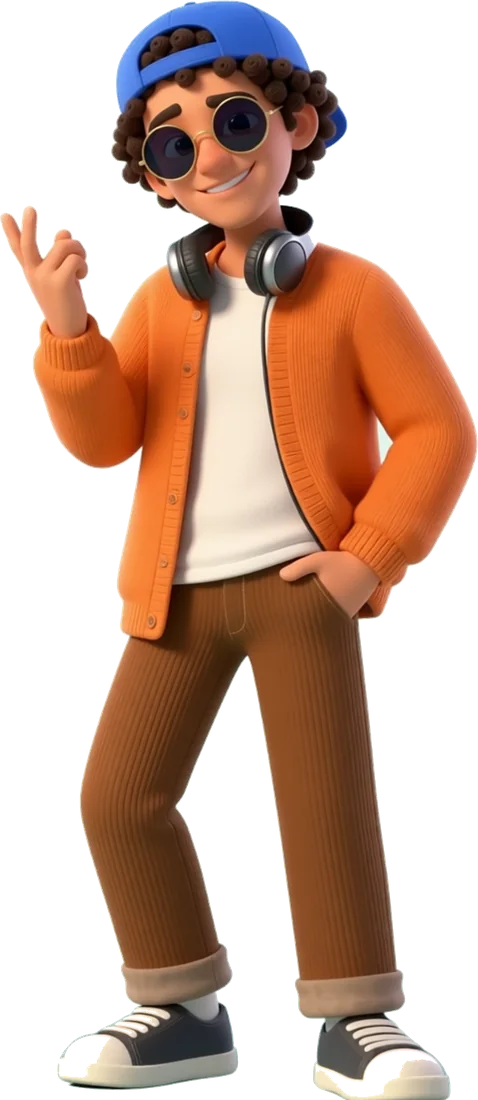
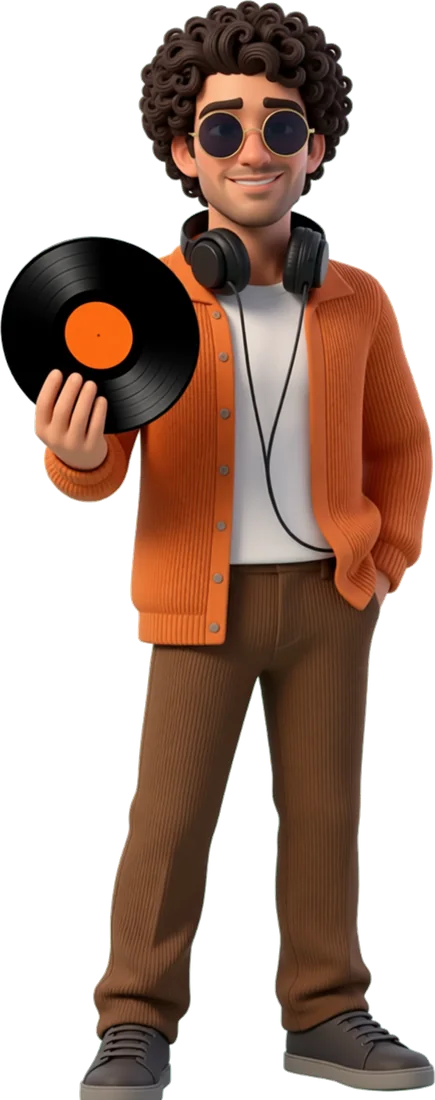
Calmer records, clean work field and soft joins; team redrawn
- Records: no parallax after the mouse (they shook a little); the player sits clear of the front
  sleeves and their tags
- Work: one clean teal-to-cobalt field without the blurred sleeve layer, which also hid the soft fades;
  the map and the prices end in an even colour and the pricing pattern fades out, so the joins are smooth
- Keyboardist redrawn: older, upright, curly, cool, in round dark glasses; on the map he holds a vinyl record
- Tester: a happier look and a phone with one small camera; on the map a handheld console and a natural face
- The recording person's recorder has a furrier windscreen on the map; shut-in mint cleared from the cut-outs

diff --git a/index.html b/index.html
@@ -11,35 +11,35 @@
 <link rel="preconnect" href="https://fonts.gstatic.com" crossorigin>
 <link rel="stylesheet" href="https://fonts.googleapis.com/css2?family=Archivo:wdth,wght@62..125,100..900&family=Roboto+Flex:wdth,wght@25..151,100..1000&family=Montserrat:wght@600..900&display=swap">
 <script>try{if(localStorage.getItem("sfx-lang")==="uk"){document.documentElement.lang="uk";document.documentElement.classList.add("i18n-wait")}}catch(e){}</script>
-<link rel="stylesheet" href="css/style.css?v=202610231812">
+<link rel="stylesheet" href="css/style.css?v=202610232003">
 <link rel="preload" as="image" href="assets/system/scene-forest.webp" fetchpriority="high">
 <script type="importmap">
 {
   "imports": {
     "three": "https://cdn.jsdelivr.net/npm/three@0.170.0/build/three.module.min.js",
     "three/addons/": "https://cdn.jsdelivr.net/npm/three@0.170.0/examples/jsm/",
-    "./js/audio.js": "./js/audio.js?v=202610231812",
-    "./js/boom-frame.js": "./js/boom-frame.js?v=202610231812",
-    "./js/content.js": "./js/content.js?v=202610231812",
-    "./js/gift.js": "./js/gift.js?v=202610231812",
-    "./js/i18n-boot.js": "./js/i18n-boot.js?v=202610231812",
-    "./js/i18n-uk.js": "./js/i18n-uk.js?v=202610231812",
-    "./js/i18n.js": "./js/i18n.js?v=202610231812",
-    "./js/main.js": "./js/main.js?v=202610231812",
-    "./js/map.js": "./js/map.js?v=202610231812",
-    "./js/music/music.js": "./js/music/music.js?v=202610231812",
-    "./js/music/sound.js": "./js/music/sound.js?v=202610231812",
-    "./js/phone-speakers.js": "./js/phone-speakers.js?v=202610231812",
-    "./js/studio-anim.js": "./js/studio-anim.js?v=202610231812",
-    "./js/studio-console.js": "./js/studio-console.js?v=202610231812",
-    "./js/studio-foley.js": "./js/studio-foley.js?v=202610231812",
-    "./js/studio-piano.js": "./js/studio-piano.js?v=202610231812",
-    "./js/team-carousel.js": "./js/team-carousel.js?v=202610231812"
+    "./js/audio.js": "./js/audio.js?v=202610232003",
+    "./js/boom-frame.js": "./js/boom-frame.js?v=202610232003",
+    "./js/content.js": "./js/content.js?v=202610232003",
+    "./js/gift.js": "./js/gift.js?v=202610232003",
+    "./js/i18n-boot.js": "./js/i18n-boot.js?v=202610232003",
+    "./js/i18n-uk.js": "./js/i18n-uk.js?v=202610232003",
+    "./js/i18n.js": "./js/i18n.js?v=202610232003",
+    "./js/main.js": "./js/main.js?v=202610232003",
+    "./js/map.js": "./js/map.js?v=202610232003",
+    "./js/music/music.js": "./js/music/music.js?v=202610232003",
+    "./js/music/sound.js": "./js/music/sound.js?v=202610232003",
+    "./js/phone-speakers.js": "./js/phone-speakers.js?v=202610232003",
+    "./js/studio-anim.js": "./js/studio-anim.js?v=202610232003",
+    "./js/studio-console.js": "./js/studio-console.js?v=202610232003",
+    "./js/studio-foley.js": "./js/studio-foley.js?v=202610232003",
+    "./js/studio-piano.js": "./js/studio-piano.js?v=202610232003",
+    "./js/team-carousel.js": "./js/team-carousel.js?v=202610232003"
   }
 }
 </script>
-<script type="module" src="js/i18n-boot.js?v=202610231812"></script>
-<script type="module" src="js/main.js?v=202610231812"></script>
+<script type="module" src="js/i18n-boot.js?v=202610232003"></script>
+<script type="module" src="js/main.js?v=202610232003"></script>
 </head>
 <body>
 <a class="skip" href="#main">Skip to content</a>
@@ -98,7 +98,7 @@
             </div>
           </figure>
           <figure class="team__p" data-member="mix" style="--h: .905">
-            <img class="team__body" src="assets/team/mix.webp" srcset="assets/team/mix-560.webp 265w, assets/team/mix.webp 520w" sizes="(max-width: 1024px) 34vw, 17vw" alt="Illustration: a team member playing a MIDI keyboard" width="520" height="1100" decoding="async" draggable="false">
+            <img class="team__body" src="assets/team/mix.webp" srcset="assets/team/mix-560.webp 257w, assets/team/mix.webp 504w" sizes="(max-width: 1024px) 34vw, 17vw" alt="Illustration: a team member playing a MIDI keyboard" width="504" height="1100" decoding="async" draggable="false">
           </figure>
         </div>
         <div class="team__bar">
@@ -158,7 +158,7 @@
             <section class="bay" data-bay="sfx" aria-labelledby="bay-sfx">
               <h3 class="bay__title" id="bay-sfx"><span class="bay__dot" data-bay-dot="sfx" aria-hidden="true"></span>Sound effects</h3>
               <div class="bay__desk">
-                <img class="bay__person bay__person--rec" src="assets/team/rec-map-560.webp" srcset="assets/team/rec-map-560.webp 249w, assets/team/rec-map.webp 489w" sizes="150px" alt="Illustration: recording footsteps with a handheld recorder" width="489" height="1100" loading="lazy" decoding="async">
+                <img class="bay__person bay__person--rec" src="assets/team/rec-map-560.webp" srcset="assets/team/rec-map-560.webp 256w, assets/team/rec-map.webp 502w" sizes="150px" alt="Illustration: recording footsteps with a handheld recorder" width="502" height="1100" loading="lazy" decoding="async">
                 <div class="principle__art principle__art--stage" id="card-sfx" data-scene="foley" role="group" aria-label="Sound effects: a boot over dirt, sand, grass and snow. Press a surface to hear the boot step on it."><span class="principle__hint" aria-hidden="true">Pick a surface</span><img class="principle__img" src="assets/studio/foley-640.webp" srcset="assets/studio/foley-640.webp 640w, assets/studio/foley-1024.webp 1024w" sizes="(max-width: 760px) 92vw, 300px" width="1024" height="768" loading="lazy" decoding="async" alt=""></div>
                 <button class="zoom-btn" type="button" data-zoom-open="card-sfx" data-zoom-label="Sound effects" aria-label="Open the sound effects larger"><svg viewBox="0 0 24 24" aria-hidden="true"><path d="M14 4h6v6M20 4l-7 7M10 20H4v-6M4 20l7-7"/></svg></button>
               </div>
@@ -166,7 +166,7 @@
             <section class="bay" data-bay="music" aria-labelledby="bay-music">
               <h3 class="bay__title" id="bay-music"><span class="bay__dot" data-bay-dot="music" aria-hidden="true"></span>Music</h3>
               <div class="bay__desk">
-                <img class="bay__person bay__person--mix" src="assets/team/mix-map-560.webp" srcset="assets/team/mix-map-560.webp 243w, assets/team/mix-map.webp 478w" sizes="150px" alt="Illustration: a musician snapping his fingers to the beat" width="478" height="1100" loading="lazy" decoding="async">
+                <img class="bay__person bay__person--mix" src="assets/team/mix-map-560.webp" srcset="assets/team/mix-map-560.webp 221w, assets/team/mix-map.webp 435w" sizes="150px" alt="Illustration: a musician holding a vinyl record" width="435" height="1100" loading="lazy" decoding="async">
                 <div class="principle__art principle__art--play" id="card-music" data-scene="keys" tabindex="0" role="group" aria-label="A small keyboard you can play" aria-describedby="piano-help"><span class="principle__hint" aria-hidden="true">Play me</span><span class="visually-hidden" id="piano-help">Click or tap the keys. With the keyboard, use A to L for white keys and W, E, T, Y, U, O, P for black keys.</span><img class="principle__img" src="assets/studio/music-640.webp" srcset="assets/studio/music-640.webp 640w, assets/studio/music-1024.webp 1024w" sizes="(max-width: 760px) 92vw, 300px" width="1024" height="768" loading="lazy" decoding="async" alt=""></div>
                 <button class="zoom-btn" type="button" data-zoom-open="card-music" data-zoom-label="Music" aria-label="Open the keyboard larger"><svg viewBox="0 0 24 24" aria-hidden="true"><path d="M14 4h6v6M20 4l-7 7M10 20H4v-6M4 20l7-7"/></svg></button>
               </div>
@@ -181,7 +181,7 @@
           <div class="stage__bay">
             <div class="bay" data-bay="test">
               <div class="bay__desk bay__desk--side">
-                <img class="bay__person bay__person--test" src="assets/team/test-map-560.webp" srcset="assets/team/test-map-560.webp 199w, assets/team/test-map.webp 391w" sizes="110px" alt="Illustration: playing the game on a phone held sideways" width="391" height="1100" loading="lazy" decoding="async">
+                <img class="bay__person bay__person--test" src="assets/team/test-map-560.webp" srcset="assets/team/test-map-560.webp 210w, assets/team/test-map.webp 412w" sizes="110px" alt="Illustration: playing a game on a handheld console" width="412" height="1100" loading="lazy" decoding="async">
                 <div class="principle__art principle__art--pad" id="card-test" data-scene="console" role="group" aria-label="A handheld console with a small rhythm game: four strings on its screen, notes slide down to their targets." aria-describedby="pad-help"><span class="principle__hint" aria-hidden="true">Sweep across the strings</span><span class="visually-hidden" id="pad-help">The four strings play the notes C, E, G and A. Press Play, then pluck each string as its note reaches the target: pass the cursor across the string (no click needed), swipe across it on a touch screen, or use the keys D, F, J and K. Out of a game the strings can be plucked freely.</span><img class="principle__img" src="assets/studio/engine-tall-640.webp" width="640" height="853" loading="lazy" decoding="async" alt=""></div>
                 <button class="zoom-btn" type="button" data-zoom-open="card-test" data-zoom-label="Integration and testing" aria-label="Open the Game Boy larger"><svg viewBox="0 0 24 24" aria-hidden="true"><path d="M14 4h6v6M20 4l-7 7M10 20H4v-6M4 20l7-7"/></svg></button>
               </div>
@@ -228,7 +228,6 @@
     <!-- round R: a record player in the style of the music apps: the chosen sleeve blurred under the whole
          section, the record spinning on a turntable with a progress bar and the player's buttons, the clients
          as a numbered track list beside it (on phones in place of the circle) -->
-    <div class="work__ambient" aria-hidden="true"><img alt="" data-ambient><img alt="" data-ambient></div>
     <div class="work__deck">
       <div class="orbit" data-orbit>
         <div class="hub player">

diff --git a/css/style.css b/css/style.css
@@ -366,9 +366,7 @@ ul { padding: 0; list-style: none; }
 .work {
   --focus: var(--lime);
   position: relative; z-index: 2;
-  background:
-    radial-gradient(46% 40% at 50% 46%, rgba(255, 255, 255, .08), transparent 72%),
-    linear-gradient(180deg, #0b8a78 0%, #0a7590 52%, #1450a8 100%);
+  background: linear-gradient(180deg, #0b8a78 0%, #0a7590 52%, #1450a8 100%);   /* round T: one clean field */
   color: #fff;
   padding: calc(var(--seam) * .72 + 8px) 0 clamp(40px, 6vh, 72px);
   overflow: hidden;
@@ -386,13 +384,9 @@ ul { padding: 0; list-style: none; }
 /* round R: a record player in the style of the music apps. The chosen sleeve, blurred, lies under the whole
    section and cross-fades to the next; its colour (--accent) runs through the bar, the equalisers and the
    active track. The circle keeps its mechanics; the track list stands beside it (on phones instead of it). */
-.work__ambient { position: absolute; inset: 0; z-index: 0; overflow: hidden; pointer-events: none; }
-.work__ambient img {
-  position: absolute; inset: -10%; width: 120%; height: 120%; max-width: none; object-fit: cover;
-  filter: blur(52px) saturate(1.25); transform: scale(1.2); opacity: 0; transition: opacity 1s ease;
-}
-.work__ambient img.is-on { opacity: .3; }
-.work > :not(.work__ambient) { position: relative; z-index: 1; }
+/* round T: no blurred sleeve under the section any more (the owner: the background looked murky, and it covered
+   the soft fades into the section above and the one below) */
+.work > * { position: relative; z-index: 1; }
 .work__deck { display: grid; grid-template-columns: minmax(0, 1fr) clamp(240px, 21vw, 300px); gap: clamp(12px, 2vw, 32px); align-items: center; max-width: 1500px; margin: 0 auto; padding: 0 var(--gutter); }
 .orbit {
   --rec-size: clamp(140px, 11.5vw, 190px);
@@ -403,10 +397,10 @@ ul { padding: 0; list-style: none; }
 .orbit__stage { position: absolute; inset: 0; touch-action: pan-y; cursor: grab; outline-offset: -8px; -webkit-user-select: none; user-select: none; }
 .orbit__stage img { -webkit-user-drag: none; pointer-events: none; }
 .orbit__stage.is-dragging { cursor: grabbing; }
-.recs { position: absolute; inset: 0; margin: 0; padding: 0; list-style: none; transform: translate(var(--px, 0px), var(--py, 0px)); transition: transform .4s ease-out; }
+.recs { position: absolute; inset: 0; margin: 0; padding: 0; list-style: none; }
 .hub {
   position: absolute; z-index: 300;
-  left: 50%; bottom: calc(var(--rec-size) + 76px);
+  left: 50%; bottom: calc(var(--rec-size) + 104px);   /* round T: clear of the front sleeves and their tags */
   transform: translateX(-50%);
   width: min(450px, 37vw);
   padding: 18px 20px 16px;
@@ -501,7 +495,7 @@ ul { padding: 0; list-style: none; }
 .player__play[aria-pressed="false"] .player__pause { display: none; }
 .player__btn:focus-visible, .player__play:focus-visible { outline: 2px solid #fff; outline-offset: 3px; }
 .work:not(.is-playing) .hub__eq i { animation-play-state: paused; }
-@media (prefers-reduced-motion: reduce) { .player .player__disc, .player__deck .player__arm { animation: none; transition: none; } .recs, .work__ambient img { transition: none; } }
+@media (prefers-reduced-motion: reduce) { .player .player__disc, .player__deck .player__arm { animation: none; transition: none; } }
 /* the track list */
 .tracks { align-self: center; }
 .tracks__title { margin: 0 0 8px 10px; font-weight: 800; font-size: .8125rem; letter-spacing: .08em; text-transform: uppercase; color: rgba(255, 255, 255, .78); }
@@ -1113,6 +1107,7 @@ ul { padding: 0; list-style: none; }
 }
 .pricing {
   background:
+    linear-gradient(to bottom, transparent calc(100% - 220px), #f3fbf7 calc(100% - 40px)),   /* round T: the pattern fades out, no cut */
     url(../assets/bg/instruments-ink.svg) -260px 120px / var(--pattern-tile) repeat,
     radial-gradient(44% 38% at 50% 70%, rgba(255, 191, 31, .14), transparent 72%),
     radial-gradient(38% 36% at 6% 6%, rgba(22, 184, 150, .14), transparent 72%),
@@ -1120,7 +1115,7 @@ ul { padding: 0; list-style: none; }
 }
 @media (max-width: 760px) {
   .pricing { --pattern-tile: 560px; }
-  .pricing { background-image: url(../assets/bg/instruments-sparse-ink.svg), radial-gradient(44% 38% at 50% 70%, rgba(255, 191, 31, .14), transparent 72%), radial-gradient(38% 36% at 6% 6%, rgba(22, 184, 150, .14), transparent 72%), linear-gradient(180deg, var(--haze) 0%, #f3fbf7 100%); }
+  .pricing { background-image: linear-gradient(to bottom, transparent calc(100% - 180px), #f3fbf7 calc(100% - 30px)), url(../assets/bg/instruments-sparse-ink.svg), radial-gradient(44% 38% at 50% 70%, rgba(255, 191, 31, .14), transparent 72%), radial-gradient(38% 36% at 6% 6%, rgba(22, 184, 150, .14), transparent 72%), linear-gradient(180deg, var(--haze) 0%, #f3fbf7 100%); }
 }
 .pricing::before { right: -5vw; bottom: -.12em; color: rgba(29, 35, 39, .025); }
 
@@ -1133,6 +1128,7 @@ ul { padding: 0; list-style: none; }
 :root { --process-foot: var(--haze); }
 .process {
   background:
+    linear-gradient(to bottom, transparent calc(100% - 140px), var(--haze) 100%),   /* round T: a plain foot for the fade below */
     radial-gradient(40% 34% at 88% 6%, rgba(255, 255, 255, .6), transparent 72%),
     radial-gradient(36% 30% at 6% 80%, rgba(69, 211, 182, .3), transparent 72%),
     radial-gradient(30% 26% at 96% 92%, rgba(255, 191, 31, .16), transparent 72%),
@@ -1496,7 +1492,7 @@ ul { padding: 0; list-style: none; }
    from that colour into its own: no hard cut, and no visible start or end of the fade (the steps
    follow a smooth S-curve). The fade lives in the section's top padding, behind the content, and is
    plain CSS: it looks the same at rest, with or without scrolling. */
-:root { --seam: clamp(84px, 10vw, 150px); }
+:root { --seam: clamp(100px, 12vw, 190px); }   /* round T: a longer, softer fade */
 .seam { position: relative; isolation: isolate; }
 .seam::after {
   content: ""; position: absolute; z-index: -1; left: 0; right: 0; top: 0; height: var(--seam); pointer-events: none;

diff --git a/js/main.js b/js/main.js
@@ -72,7 +72,7 @@ function initHeader() {
 // line on top, the phone under it, the team under the phone. The people's tops come from their pictures:
 // bands of their silhouettes, every 4 % of the height (_dev/tools/team_silhouette.py), her microphone from
 // js/boom-frame.js; thin things (her pole) are left out.
-const SILHOUETTE = {"test":[[0.0,0.04,0.422,0.791],[0.04,0.08,0.391,0.812],[0.08,0.12,0.396,0.812],[0.12,0.16,0.381,0.719],[0.16,0.2,0.383,0.709],[0.2,0.24,0.0,0.828],[0.24,0.28,0.0,0.896],[0.28,0.32,0.002,0.934],[0.32,0.36,0.045,0.971],[0.36,0.4,0.072,0.998],[0.4,0.44,0.08,1.0],[0.44,0.48,0.285,0.986],[0.48,0.52,0.281,0.945],[0.52,0.56,0.285,0.828],[0.56,0.6,0.32,0.777]],"rec":[[0.12,0.16,0.683,0.843],[0.16,0.2,0.608,0.921],[0.2,0.24,0.586,0.947],[0.24,0.28,0.575,0.954],[0.28,0.32,0.354,0.952],[0.32,0.36,0.359,0.943],[0.36,0.4,0.32,0.936],[0.4,0.44,0.317,0.974],[0.44,0.48,0.35,0.996],[0.48,0.52,0.488,1.0],[0.52,0.56,0.475,0.969],[0.56,0.6,0.499,0.901]],"mix":[[0.0,0.04,0.215,0.544],[0.04,0.08,0.173,0.602],[0.08,0.12,0.173,0.617],[0.12,0.16,0.133,0.61],[0.16,0.2,0.131,0.548],[0.2,0.24,0.238,0.585],[0.24,0.28,0.127,0.683],[0.28,0.32,0.071,0.74],[0.32,0.36,0.025,0.794],[0.36,0.4,0.0,0.831],[0.4,0.44,0.0,0.848],[0.44,0.48,0.027,0.994],[0.48,0.52,0.113,1.0],[0.52,0.56,0.023,0.892],[0.56,0.6,0.044,0.698]]};
+const SILHOUETTE = {"test":[[0.0,0.04,0.42,0.797],[0.04,0.08,0.396,0.811],[0.08,0.12,0.404,0.801],[0.12,0.16,0.381,0.711],[0.16,0.2,0.395,0.709],[0.2,0.24,0.0,0.828],[0.24,0.28,0.0,0.896],[0.28,0.32,0.0,0.934],[0.32,0.36,0.045,0.971],[0.36,0.4,0.072,0.998],[0.4,0.44,0.08,1.0],[0.44,0.48,0.285,0.986],[0.48,0.52,0.281,0.945],[0.52,0.56,0.285,0.828],[0.56,0.6,0.32,0.777]],"rec":[[0.12,0.16,0.683,0.843],[0.16,0.2,0.608,0.921],[0.2,0.24,0.586,0.947],[0.24,0.28,0.575,0.954],[0.28,0.32,0.354,0.952],[0.32,0.36,0.359,0.943],[0.36,0.4,0.32,0.936],[0.4,0.44,0.317,0.974],[0.44,0.48,0.35,0.996],[0.48,0.52,0.488,1.0],[0.52,0.56,0.475,0.969],[0.56,0.6,0.499,0.901]],"mix":[[0.0,0.04,0.27,0.597],[0.04,0.08,0.218,0.637],[0.08,0.12,0.206,0.637],[0.12,0.16,0.21,0.611],[0.16,0.2,0.256,0.563],[0.2,0.24,0.236,0.607],[0.24,0.28,0.121,0.706],[0.28,0.32,0.087,0.734],[0.32,0.36,0.05,0.782],[0.36,0.4,0.022,0.819],[0.4,0.44,0.02,0.839],[0.44,0.48,0.042,0.994],[0.48,0.52,0.19,1.0],[0.52,0.56,0.0,0.919],[0.56,0.6,0.0,0.687]]};
 const PHONE_RATIO = 2.05;
 
 // every place the people pass on the carousel (k = -1 left ... 0 middle ... +1 right), as rects on the stage
@@ -285,7 +285,6 @@ function initWork(openProject) {
     name: $('[data-hub-name]'), summary: $('[data-hub-summary]'), open: $('[data-open]'), link: $('[data-hub-link]'),
   };
   const deck = $('[data-deck]'), playBtn = $('[data-play]'), bar = $('[data-seek]');
-  const ambient = $$('[data-ambient]');
   // the track list: the clients numbered like the tracks of an album (no years or genres: those aren't in
   // the data; under the name, the project our team worked on, where the owner confirmed one)
   const tracks = $('[data-tracks]');
@@ -369,7 +368,7 @@ function initWork(openProject) {
     src.start(music.now());
   };
 
-  let active = -1, byHand = false, ambientSide = 0;
+  let active = -1, byHand = false;
   const setActive = (i) => {
     if (i === active) return;
     if (active >= 0) { items[active].classList.remove('is-active'); rows[active].classList.remove('is-active'); rows[active].removeAttribute('aria-current'); }
@@ -389,13 +388,6 @@ function initWork(openProject) {
     hub.link.hidden = !p.link;
     if (p.link) { hub.link.href = p.link.href; hub.link.firstChild.textContent = p.link.label; }
     hub.open.hidden = !p.case;
-    // the sleeve, blurred, under the whole section: the two layers cross-fade
-    if (p.art) {
-      ambientSide = 1 - ambientSide;
-      ambient[ambientSide].src = p.art;
-      ambient[ambientSide].classList.add('is-on');
-      ambient[1 - ambientSide].classList.remove('is-on');
-    }
     // the next record: the bar goes back to the start; the tonearm stays as it is (up on pause; on the go a
     // single quick lift and drop)
     progress = 0; paintBar();
@@ -563,16 +555,7 @@ function initWork(openProject) {
     swipe = null;
     if (Math.abs(dx) > 48 && Math.abs(dx) > Math.abs(dy) * 1.4) go(dx < 0 ? 1 : -1);
   });
-  // a small parallax of the circle after the mouse (none with reduced motion)
-  if (matchMedia('(hover: hover) and (pointer: fine)').matches) {
-    stage.addEventListener('pointermove', (e) => {
-      if (reduceMotion.matches || strip.matches) return;
-      const r = stage.getBoundingClientRect();
-      list.style.setProperty('--px', `${(((e.clientX - r.left) / r.width - 0.5) * -6).toFixed(2)}px`);
-      list.style.setProperty('--py', `${(((e.clientY - r.top) / r.height - 0.5) * -4).toFixed(2)}px`);
-    });
-    stage.addEventListener('pointerleave', () => { list.style.removeProperty('--px'); list.style.removeProperty('--py'); });
-  }
+  // round T: no parallax after the mouse any more (the owner: the records shook a little as the pointer moved)
   $('[data-open]').addEventListener('click', () => openProject(active));
   let drag = null, moved = false;
   list.addEventListener('click', (e) => {

diff --git a/js/i18n-uk.js b/js/i18n-uk.js
@@ -116,11 +116,11 @@ export const UK = {
   'Sound effects: a boot over dirt, sand, grass and snow. Press a surface to hear the boot step on it.':
     'Звукові ефекти: черевик над землею, піском, травою і снігом. Натисніть на поверхню, щоб почути крок по ній.',
   'Open the sound effects larger': 'Відкрити звукові ефекти більшими',
-  'Illustration: a musician snapping his fingers to the beat': 'Ілюстрація: музикант клацає пальцями в ритм',
+  'Illustration: a musician holding a vinyl record': 'Ілюстрація: музикант тримає вінілову платівку',
   'Open the keyboard larger': 'Відкрити клавіатуру більшою',
   'We connect the solution to the game and check its behaviour and balance in gameplay.': 'Підключаємо рішення до гри й перевіряємо його поведінку та баланс у геймплеї.',
   'Checked in the game': 'Перевірено в грі',
-  'Illustration: playing the game on a phone held sideways': 'Ілюстрація: гра на телефоні, який тримають горизонтально',
+  'Illustration: playing a game on a handheld console': 'Ілюстрація: гра на портативній консолі',
   'Open the Game Boy larger': 'Відкрити Game Boy більшим',
   'Sweep across the strings to play. The rhythm game is only a demo of the interaction, not a tool for testing your game.':
     'Проведіть по струнах, щоб зіграти. Ритм-гра — лише демонстрація взаємодії, а не інструмент для тестування вашої гри.',
